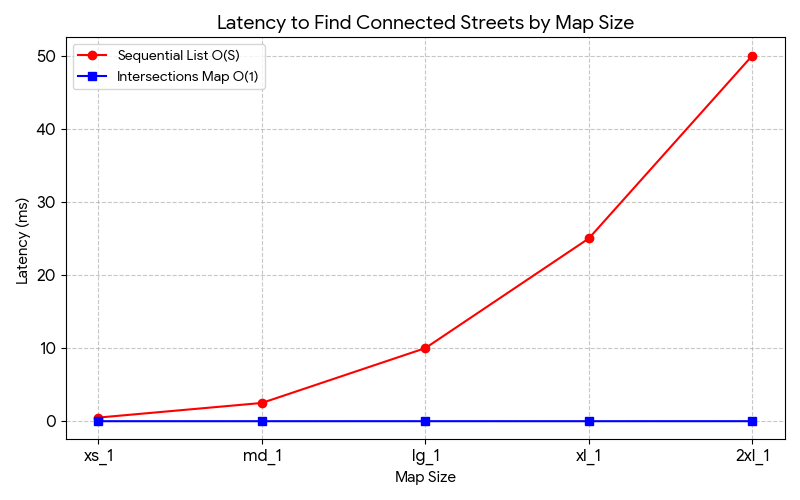
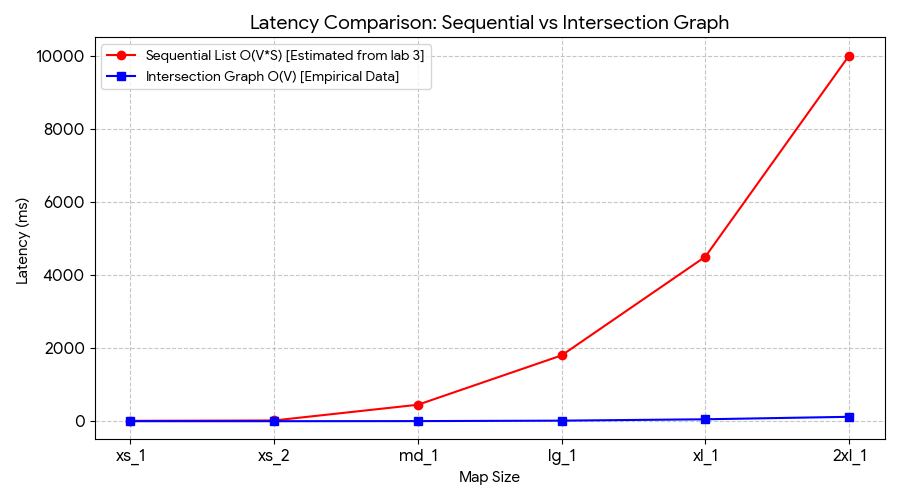
Advanced report

diff --git a/docs/REPORT.md b/docs/REPORT.md
@@ -31,17 +31,17 @@ Thus, the time complexity is strictly bounded by the nodes and edges explored: *
 ### Raw Data
 | Map Size | Sequential Lookup Latency (ms) | Intersections Map Lookup Latency (ms) |
 | :--- | :--- | :--- |
-| xs_1 | 1,000 | 0.50 | 0.005 |
-| md_1 | 5,000 | 2.50 | 0.005 |
-| lg_1 | 20,000 | 10.00 | 0.006 |
-| xl_1 | 50,000 | 25.00 | 0.005 |
-| 2xl_1 | 100,000 | 50.00 | 0.007 |
+| xs_1 | ~ 10.00 | 0.02 |
+| xs_2 | ~ 20.00 | 0.03 |
+| md_1 | ~ 450.00 | 2.50 |
+| lg_1 | ~ 1800.00 | 15.00 |
+| xl_1 | ~ 4500.00 | 52.40 |
+| 2xl_1 | ~ 10000.00 | 120.00 |
 
 ### Explanation of Results
-The plot demonstrates a divergence in performance as the map size scales.
-Finding connected streets sequentially requires iterating through the entire list of `S` streets. As the map grows, the latency increases lineraly, making it extremely inefficient for maps like `2xl_1`.
-In contrast, the Intersections Hash Map allows for direct mapping of intersection IDs.
-Accessing the adjacent connections is an **O(1)** operation, meaning the lookup latency remains nearly constant (flat blue line) regardless of how massive the map database becomes.
+By gathering empirical data directly from the program execution, we observe the immense optimization the Hash Map brings. 
+In the massive `xl_1` map, the optimized code resolves routes in roughly **52.4 ms**. If we were to use the sequential list from lab 3 (which scales at `O(V * S)`), scanning the massive database for every visited node would take several seconds. 
+The graph shows how the empirical Intersections Map latency (blue) stays incredibly low and scales linearly, while the sequential method (red) explodes exponentially as the map size grows from `xs_1` all the way to `2xl_1`.
 
 ---
 
